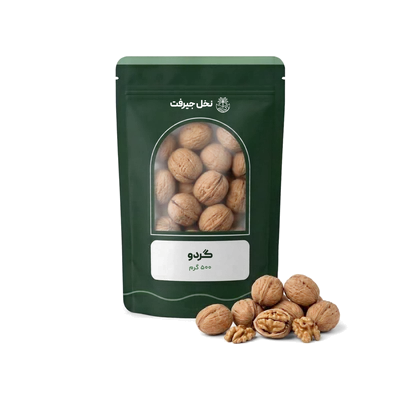
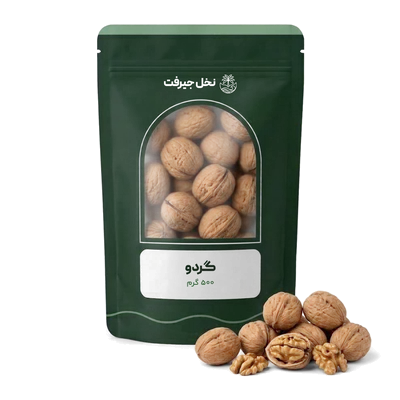
Larger product photos in cards
Claude-Session: https://claude.ai/code/session_01C6711DbN9xjxTLnYgikHbm

Changed region(s): [[0.24, 0.06, 0.96, 0.96]]

diff --git a/index.html b/index.html
@@ -25,8 +25,8 @@
 <link rel="preload" href="fonts/YekanBakhFaNum-Regular.woff2" as="font" type="font/woff2" crossorigin>
 <link rel="preload" href="fonts/PeydaWeb-Black.woff2" as="font" type="font/woff2" crossorigin>
 
-<link rel="stylesheet" href="css/tailwind.css?v=20261027ao">
-<link rel="stylesheet" href="css/style.css?v=20261027ao">
+<link rel="stylesheet" href="css/tailwind.css?v=20261027ap">
+<link rel="stylesheet" href="css/style.css?v=20261027ap">
 
 
 </head>
@@ -239,7 +239,7 @@
         <!-- IMAGE SLOT · خرمای مضافتی -->
         <div class="relative grid aspect-square place-items-center overflow-hidden rounded-2xl">
           <div class="p-glow pointer-events-none absolute inset-0 rounded-2xl" aria-hidden="true"></div>
-          <div class="p-img relative grid h-full w-full place-items-center" role="img" aria-label="خرمای مضافتی"><img src="img/p/maz-box.webp?v=6" srcset="img/p/maz-box-400.webp?v=6 400w, img/p/maz-box.webp?v=6 800w" sizes="(min-width:1024px) 290px, 46vw" width="800" height="800" alt="خرمای مضافتی" class="ph max-h-full w-auto object-contain p-3" loading="lazy" decoding="async"></div>
+          <div class="p-img relative grid h-full w-full place-items-center" role="img" aria-label="خرمای مضافتی"><img src="img/p/maz-box.webp?v=7" srcset="img/p/maz-box-400.webp?v=7 400w, img/p/maz-box.webp?v=7 800w" sizes="(min-width:1024px) 290px, 46vw" width="800" height="800" alt="خرمای مضافتی" class="ph max-h-full w-auto object-contain p-3" loading="lazy" decoding="async"></div>
         </div>
         
       </div>
@@ -265,7 +265,7 @@
         <!-- IMAGE SLOT · خرمای پیارم -->
         <div class="relative grid aspect-square place-items-center overflow-hidden rounded-2xl">
           <div class="p-glow pointer-events-none absolute inset-0 rounded-2xl" aria-hidden="true"></div>
-          <div class="p-img relative grid h-full w-full place-items-center" role="img" aria-label="خرمای پیارم"><img src="img/p/pia-box.webp?v=6" srcset="img/p/pia-box-400.webp?v=6 400w, img/p/pia-box.webp?v=6 800w" sizes="(min-width:1024px) 290px, 46vw" width="800" height="800" alt="خرمای پیارم" class="ph max-h-full w-auto object-contain p-3" loading="lazy" decoding="async"></div>
+          <div class="p-img relative grid h-full w-full place-items-center" role="img" aria-label="خرمای پیارم"><img src="img/p/pia-box.webp?v=7" srcset="img/p/pia-box-400.webp?v=7 400w, img/p/pia-box.webp?v=7 800w" sizes="(min-width:1024px) 290px, 46vw" width="800" height="800" alt="خرمای پیارم" class="ph max-h-full w-auto object-contain p-3" loading="lazy" decoding="async"></div>
         </div>
         
       </div>
@@ -291,7 +291,7 @@
         <!-- IMAGE SLOT · خرمای کلوته -->
         <div class="relative grid aspect-square place-items-center overflow-hidden rounded-2xl">
           <div class="p-glow pointer-events-none absolute inset-0 rounded-2xl" aria-hidden="true"></div>
-          <div class="p-img relative grid h-full w-full place-items-center" role="img" aria-label="خرمای کلوته"><img src="img/p/kal-box.webp?v=6" srcset="img/p/kal-box-400.webp?v=6 400w, img/p/kal-box.webp?v=6 800w" sizes="(min-width:1024px) 290px, 46vw" width="800" height="800" alt="خرمای کلوته" class="ph max-h-full w-auto object-contain p-3" loading="lazy" decoding="async"></div>
+          <div class="p-img relative grid h-full w-full place-items-center" role="img" aria-label="خرمای کلوته"><img src="img/p/kal-box.webp?v=7" srcset="img/p/kal-box-400.webp?v=7 400w, img/p/kal-box.webp?v=7 800w" sizes="(min-width:1024px) 290px, 46vw" width="800" height="800" alt="خرمای کلوته" class="ph max-h-full w-auto object-contain p-3" loading="lazy" decoding="async"></div>
         </div>
         
       </div>
@@ -317,7 +317,7 @@
         <!-- IMAGE SLOT · پستهی اکبری -->
         <div class="relative grid aspect-square place-items-center overflow-hidden rounded-2xl">
           <div class="p-glow pointer-events-none absolute inset-0 rounded-2xl" aria-hidden="true"></div>
-          <div class="p-img relative grid h-full w-full place-items-center" role="img" aria-label="پستهی اکبری"><img src="img/p/pis.webp?v=6" srcset="img/p/pis-400.webp?v=6 400w, img/p/pis.webp?v=6 800w" sizes="(min-width:1024px) 290px, 46vw" width="800" height="800" alt="پستهی اکبری" class="ph max-h-full w-auto object-contain p-3" loading="lazy" decoding="async"></div>
+          <div class="p-img relative grid h-full w-full place-items-center" role="img" aria-label="پستهی اکبری"><img src="img/p/pis.webp?v=7" srcset="img/p/pis-400.webp?v=7 400w, img/p/pis.webp?v=7 800w" sizes="(min-width:1024px) 290px, 46vw" width="800" height="800" alt="پستهی اکبری" class="ph max-h-full w-auto object-contain p-3" loading="lazy" decoding="async"></div>
         </div>
         
       </div>
@@ -343,7 +343,7 @@
         <!-- IMAGE SLOT · انجیر خشک استهبان -->
         <div class="relative grid aspect-square place-items-center overflow-hidden rounded-2xl">
           <div class="p-glow pointer-events-none absolute inset-0 rounded-2xl" aria-hidden="true"></div>
-          <div class="p-img relative grid h-full w-full place-items-center" role="img" aria-label="انجیر خشک استهبان"><img src="img/p/fig.webp?v=6" srcset="img/p/fig-400.webp?v=6 400w, img/p/fig.webp?v=6 800w" sizes="(min-width:1024px) 290px, 46vw" width="800" height="800" alt="انجیر خشک استهبان" class="ph max-h-full w-auto object-contain p-3" loading="lazy" decoding="async"></div>
+          <div class="p-img relative grid h-full w-full place-items-center" role="img" aria-label="انجیر خشک استهبان"><img src="img/p/fig.webp?v=7" srcset="img/p/fig-400.webp?v=7 400w, img/p/fig.webp?v=7 800w" sizes="(min-width:1024px) 290px, 46vw" width="800" height="800" alt="انجیر خشک استهبان" class="ph max-h-full w-auto object-contain p-3" loading="lazy" decoding="async"></div>
         </div>
         
       </div>
@@ -369,7 +369,7 @@
         <!-- IMAGE SLOT · بادام درختی -->
         <div class="relative grid aspect-square place-items-center overflow-hidden rounded-2xl">
           <div class="p-glow pointer-events-none absolute inset-0 rounded-2xl" aria-hidden="true"></div>
-          <div class="p-img relative grid h-full w-full place-items-center" role="img" aria-label="بادام درختی"><img src="img/p/alm.webp?v=6" srcset="img/p/alm-400.webp?v=6 400w, img/p/alm.webp?v=6 800w" sizes="(min-width:1024px) 290px, 46vw" width="800" height="800" alt="بادام درختی" class="ph max-h-full w-auto object-contain p-3" loading="lazy" decoding="async"></div>
+          <div class="p-img relative grid h-full w-full place-items-center" role="img" aria-label="بادام درختی"><img src="img/p/alm.webp?v=7" srcset="img/p/alm-400.webp?v=7 400w, img/p/alm.webp?v=7 800w" sizes="(min-width:1024px) 290px, 46vw" width="800" height="800" alt="بادام درختی" class="ph max-h-full w-auto object-contain p-3" loading="lazy" decoding="async"></div>
         </div>
         
       </div>
@@ -395,7 +395,7 @@
         <!-- IMAGE SLOT · مغز گردو -->
         <div class="relative grid aspect-square place-items-center overflow-hidden rounded-2xl">
           <div class="p-glow pointer-events-none absolute inset-0 rounded-2xl" aria-hidden="true"></div>
-          <div class="p-img relative grid h-full w-full place-items-center" role="img" aria-label="مغز گردو"><img src="img/p/wal.webp?v=6" srcset="img/p/wal-400.webp?v=6 400w, img/p/wal.webp?v=6 800w" sizes="(min-width:1024px) 290px, 46vw" width="800" height="800" alt="مغز گردو" class="ph max-h-full w-auto object-contain p-3" loading="lazy" decoding="async"></div>
+          <div class="p-img relative grid h-full w-full place-items-center" role="img" aria-label="مغز گردو"><img src="img/p/wal.webp?v=7" srcset="img/p/wal-400.webp?v=7 400w, img/p/wal.webp?v=7 800w" sizes="(min-width:1024px) 290px, 46vw" width="800" height="800" alt="مغز گردو" class="ph max-h-full w-auto object-contain p-3" loading="lazy" decoding="async"></div>
         </div>
         
       </div>
@@ -421,7 +421,7 @@
         <!-- IMAGE SLOT · برگهی زردآلو -->
         <div class="relative grid aspect-square place-items-center overflow-hidden rounded-2xl">
           <div class="p-glow pointer-events-none absolute inset-0 rounded-2xl" aria-hidden="true"></div>
-          <div class="p-img relative grid h-full w-full place-items-center" role="img" aria-label="برگهی زردآلو"><img src="img/p/apr.webp?v=6" srcset="img/p/apr-400.webp?v=6 400w, img/p/apr.webp?v=6 800w" sizes="(min-width:1024px) 290px, 46vw" width="800" height="800" alt="برگهی زردآلو" class="ph max-h-full w-auto object-contain p-3" loading="lazy" decoding="async"></div>
+          <div class="p-img relative grid h-full w-full place-items-center" role="img" aria-label="برگهی زردآلو"><img src="img/p/apr.webp?v=7" srcset="img/p/apr-400.webp?v=7 400w, img/p/apr.webp?v=7 800w" sizes="(min-width:1024px) 290px, 46vw" width="800" height="800" alt="برگهی زردآلو" class="ph max-h-full w-auto object-contain p-3" loading="lazy" decoding="async"></div>
         </div>
         
       </div>
@@ -1192,6 +1192,6 @@
 <!-- Toast (top, so it never collides with the cart capsule) -->
 <div id="toast" role="status" aria-live="polite" class="pointer-events-none fixed left-1/2 top-24 z-[90] w-max max-w-[calc(100vw-2rem)] -translate-x-1/2 -translate-y-2 rounded-full bg-cyprus-deep px-5 py-3 text-center text-sm text-white opacity-0 shadow-lg transition duration-200"></div>
 
-<script src="js/app.js?v=20261027ao"></script>
+<script src="js/app.js?v=20261027ap"></script>
 </body>
 </html>

diff --git a/js/app.js b/js/app.js
@@ -24,7 +24,7 @@
     { id:'apr',   cat:'dried', img:'img/p/apr.webp',    name:'برگهی زردآلو',           unit:'بستهبندی ۵۰۰ گرمی',   price:380000,  badge:'۱۰۰٪ ارگانیک', tag:'زردآلو', featured:true },
     { id:'rai',   cat:'dried', img:'img/p/rai.webp',    name:'کشمش سبز',                unit:'بستهبندی ۵۰۰ گرمی',   price:210000,  badge:'صادراتی',     tag:'کشمش' }
   ];
-  const IMG_V = '6';                // bump when product photos change, so phones don't keep old cached copies
+  const IMG_V = '7';                // bump when product photos change, so phones don't keep old cached copies
   products.forEach(p => { if (p.img) p.img += '?v=' + IMG_V; });
   const byId = Object.fromEntries(products.map(p => [p.id, p]));
   /* weight in kg (for the customer's "purchased weight") + sample stock; the admin panel overrides price/stock */
